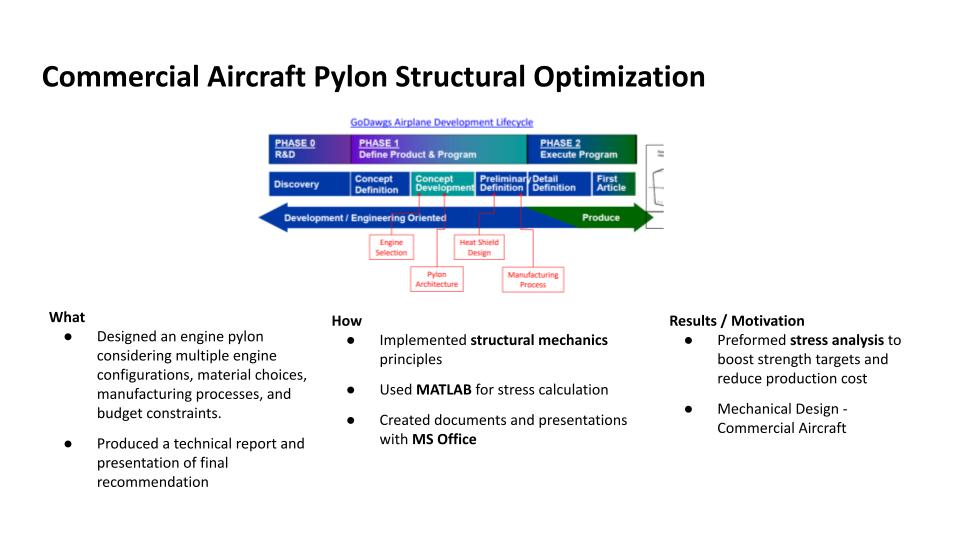
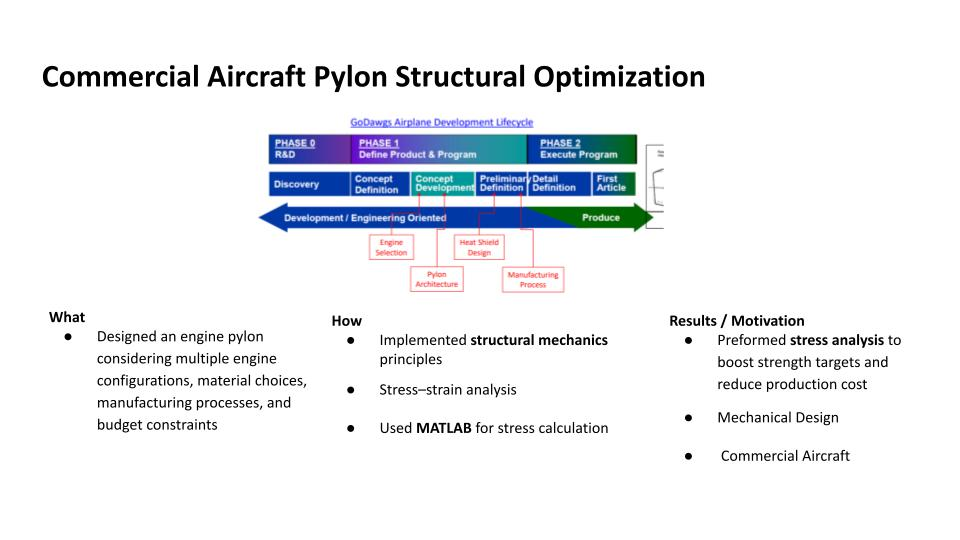
project sections update

diff --git a/index.html b/index.html
@@ -258,11 +258,6 @@
           <img src="slide2.jpg" alt="Project 2" class="block max-w-full max-h-[30rem] object-contain" loading="lazy" />
         </div>
 
-        <!-- Project Tile 2 -->
-        <div class="project-card snap-center flex-shrink-0 rounded-lg shadow-lg bg-white overflow-hidden opacity-0 scale-95 transition-all duration-700">
-          <img src="slide2.jpg" alt="Project 2" class="block max-w-full max-h-[30rem] object-contain" loading="lazy" />
-        </div>
-
         <!-- Add more project slides here -->
       </div>
     </div>
